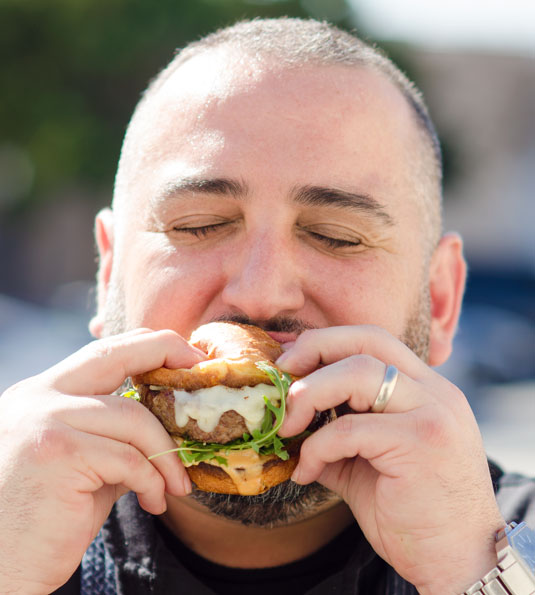
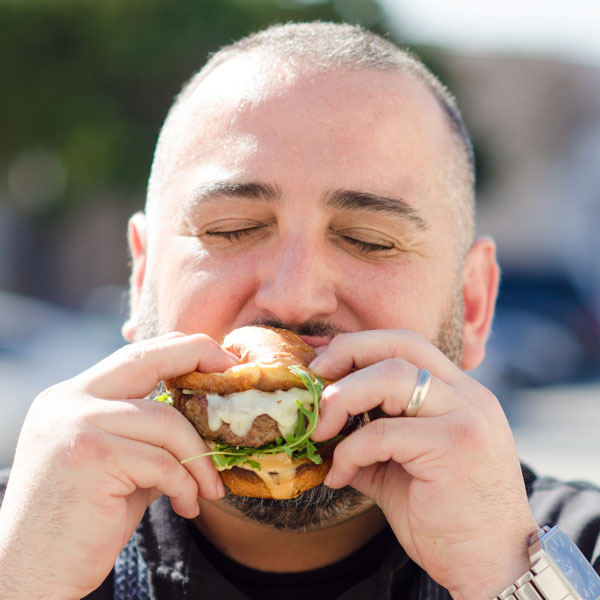
tony assets, menu cover assets, and cover-min-height change
uploaded assets in assets/img/cheftony
uploaded assets in assets/menu/
changed cover-min-height to a mixin w/breakpoints

diff --git a/assets/scss/layouts/_l-location.scss b/assets/scss/layouts/_l-location.scss
@@ -1,15 +1,15 @@
 .location-cover {
   background-color: $beige;
-  min-height: $cover-min-height;
-  height: $cover-min-height;
   @include small-cover-bottom-margin();
+  @include cover-min-height();
   overflow: hidden;
 
   iframe {
-    height: $cover-min-height;
     width: 100%;
     border: 0px;
     pointer-events: none;
+
+    @include cover-min-height();
   }
 
   &.active {

diff --git a/assets/scss/layouts/_l-menu.scss b/assets/scss/layouts/_l-menu.scss
@@ -4,12 +4,12 @@
 
 .menu-cover {
   margin-top: 0px;
-  min-height: $cover-min-height;
   width: 100%;
   background-image: url(/assets/img/home/hero-pairings.jpg);
   background-size: cover;
   background-position: center;
   @include small-cover-bottom-margin();
+  @include cover-min-height();
 }
 
 

diff --git a/assets/scss/layouts/_l-events.scss b/assets/scss/layouts/_l-events.scss
@@ -1,10 +1,10 @@
 .events-cover {
   position: relative;
-  min-height: 200px;
   width: 100%;
   background-size: 200px 200px;
   padding: 40px 0px 20px 0px;
   @include small-cover-bottom-margin();
+  @include cover-min-height();
 
   &__content {
     @include container-small();

diff --git a/assets/scss/base/_config.scss b/assets/scss/base/_config.scss
@@ -120,4 +120,14 @@ $font-size--xxlarge: 44px;
 // OTHER VARS
 //////
 
-$cover-min-height: 280px;
+@mixin cover-min-height {
+  min-height: 320px;
+
+  @include breakpoint(medium) {
+    min-height: 400px;
+  }
+
+  @include breakpoint(large) {
+    min-height: 480px;
+  }
+}

diff --git a/assets/scss/layouts/l-chef.scss b/assets/scss/layouts/l-chef.scss
@@ -14,6 +14,7 @@
   @include breakpoint(medium) {
     background-size: 100% auto;
     background-position: top center;
+    min-height: 1000px;
   }
 
   @include breakpoint(large) {
